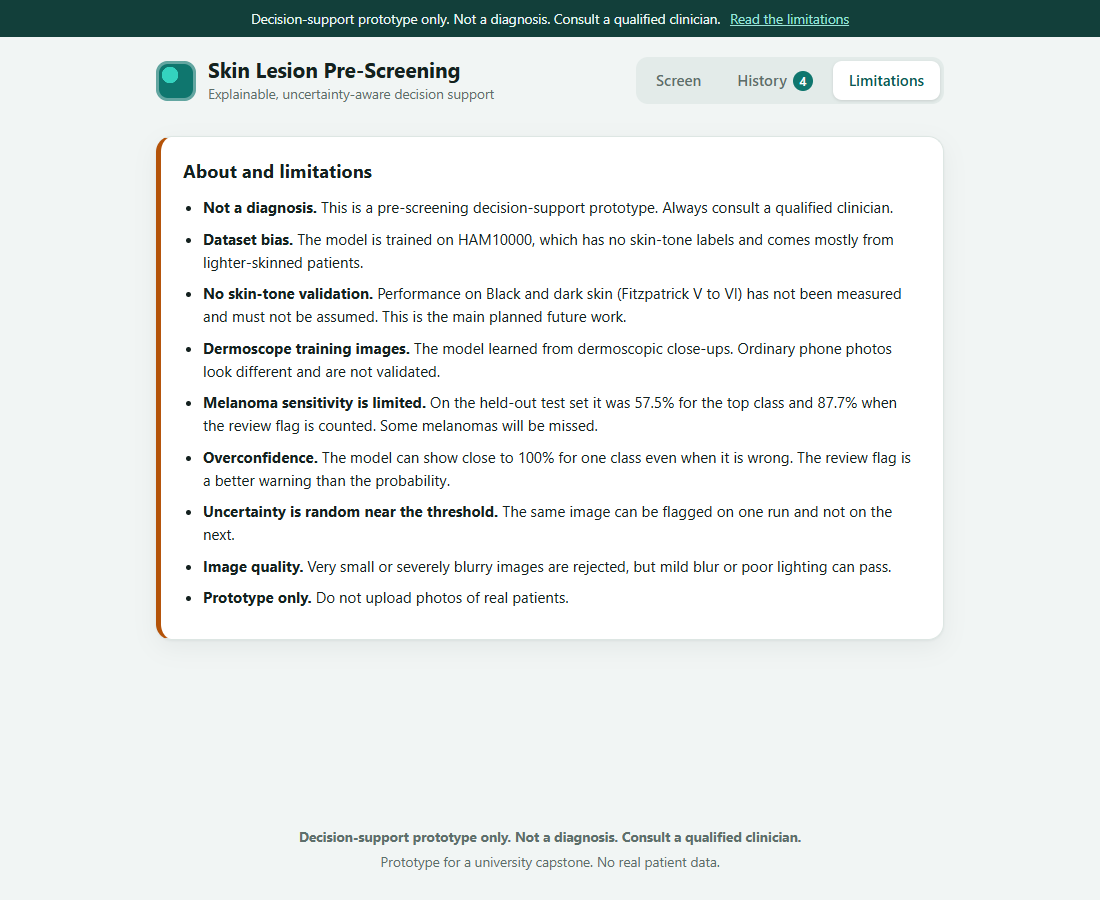
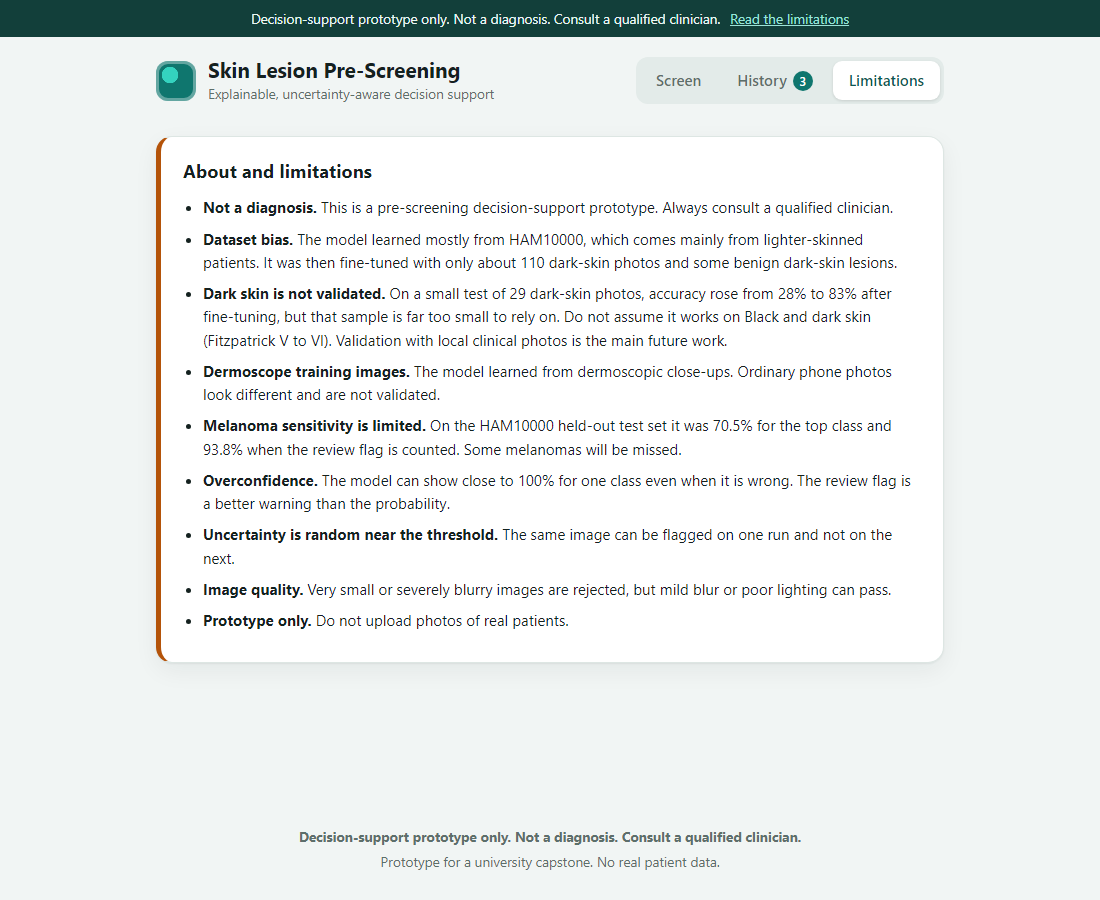
Update the limitations panel and screenshots for the dark-skin model

diff --git a/frontend/src/components/Limitations.jsx b/frontend/src/components/Limitations.jsx
@@ -6,12 +6,12 @@ export default function Limitations({ compact = false }) {
       </div>
       <ul>
         <li><strong>Not a diagnosis.</strong> This is a pre-screening decision-support prototype. Always consult a qualified clinician.</li>
-        <li><strong>Dataset bias.</strong> The model is trained on HAM10000, which has no skin-tone labels and comes mostly from lighter-skinned patients.</li>
-        <li><strong>No skin-tone validation.</strong> Performance on Black and dark skin (Fitzpatrick V to VI) has not been measured and must not be assumed. This is the main planned future work.</li>
+        <li><strong>Dataset bias.</strong> The model learned mostly from HAM10000, which comes mainly from lighter-skinned patients. It was then fine-tuned with only about 110 dark-skin photos and some benign dark-skin lesions.</li>
+        <li><strong>Dark skin is not validated.</strong> On a small test of 29 dark-skin photos, accuracy rose from 28% to 83% after fine-tuning, but that sample is far too small to rely on. Do not assume it works on Black and dark skin (Fitzpatrick V to VI). Validation with local clinical photos is the main future work.</li>
         {!compact && (
           <>
             <li><strong>Dermoscope training images.</strong> The model learned from dermoscopic close-ups. Ordinary phone photos look different and are not validated.</li>
-            <li><strong>Melanoma sensitivity is limited.</strong> On the held-out test set it was 57.5% for the top class and 87.7% when the review flag is counted. Some melanomas will be missed.</li>
+            <li><strong>Melanoma sensitivity is limited.</strong> On the HAM10000 held-out test set it was 70.5% for the top class and 93.8% when the review flag is counted. Some melanomas will be missed.</li>
             <li><strong>Overconfidence.</strong> The model can show close to 100% for one class even when it is wrong. The review flag is a better warning than the probability.</li>
             <li><strong>Uncertainty is random near the threshold.</strong> The same image can be flagged on one run and not on the next.</li>
             <li><strong>Image quality.</strong> Very small or severely blurry images are rejected, but mild blur or poor lighting can pass.</li>
